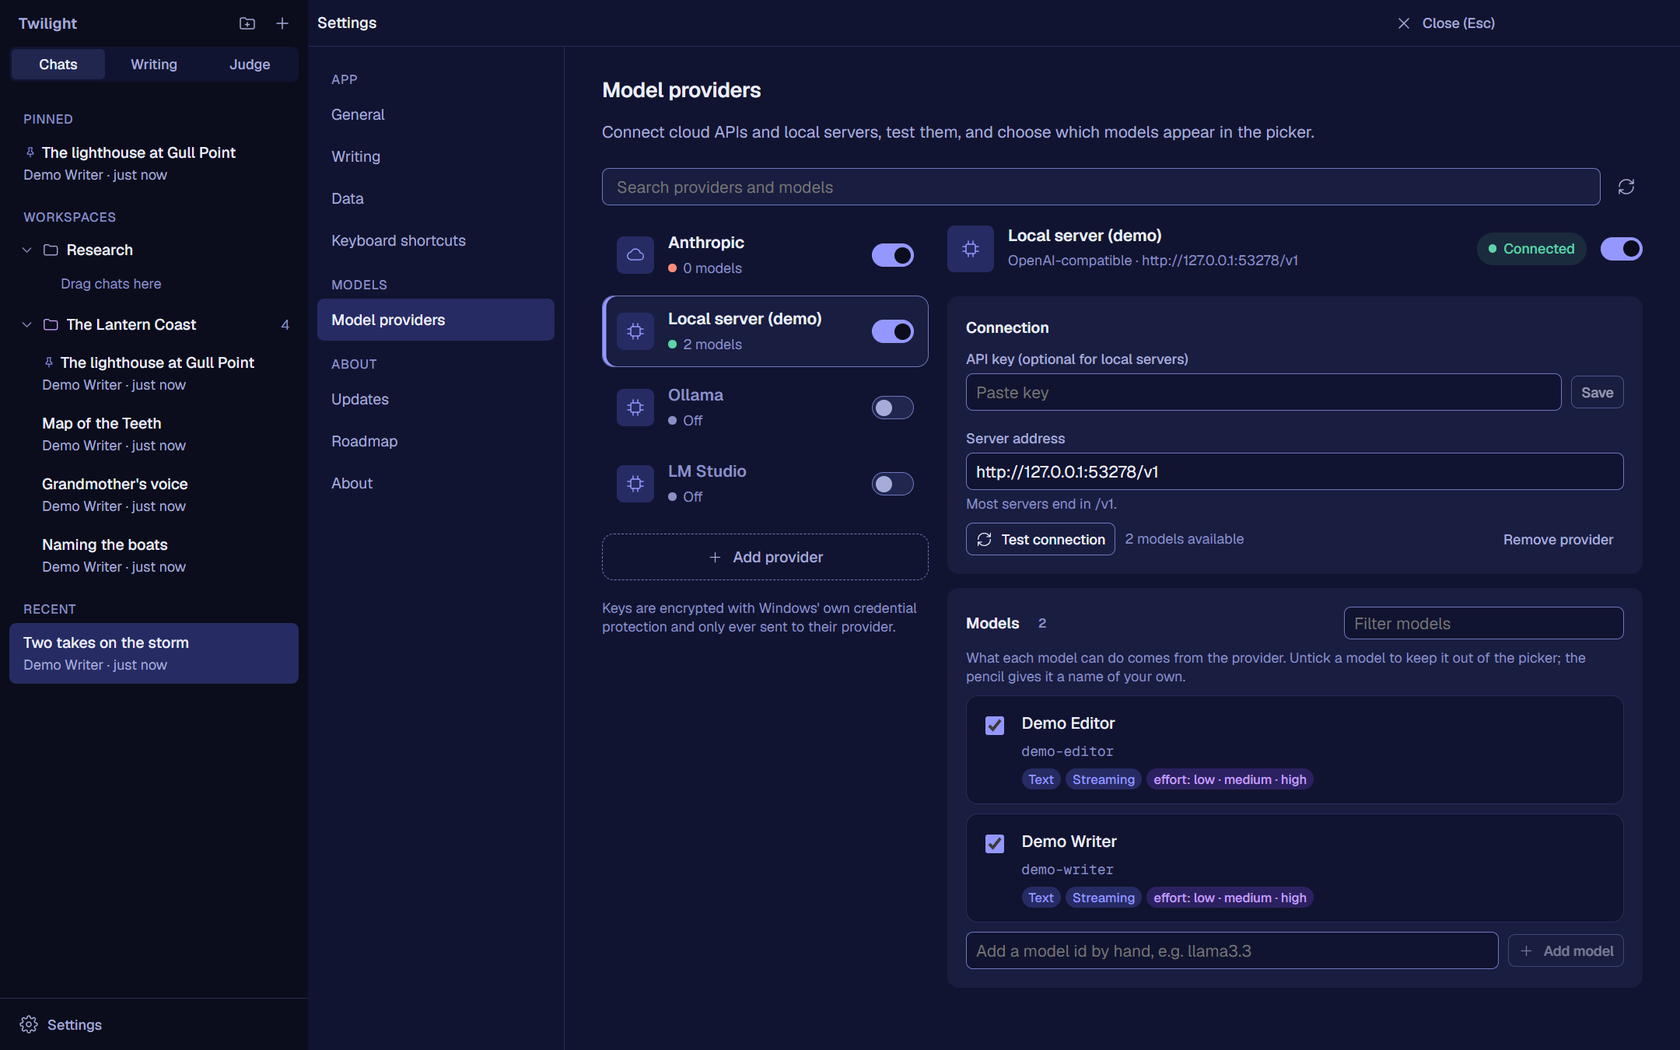
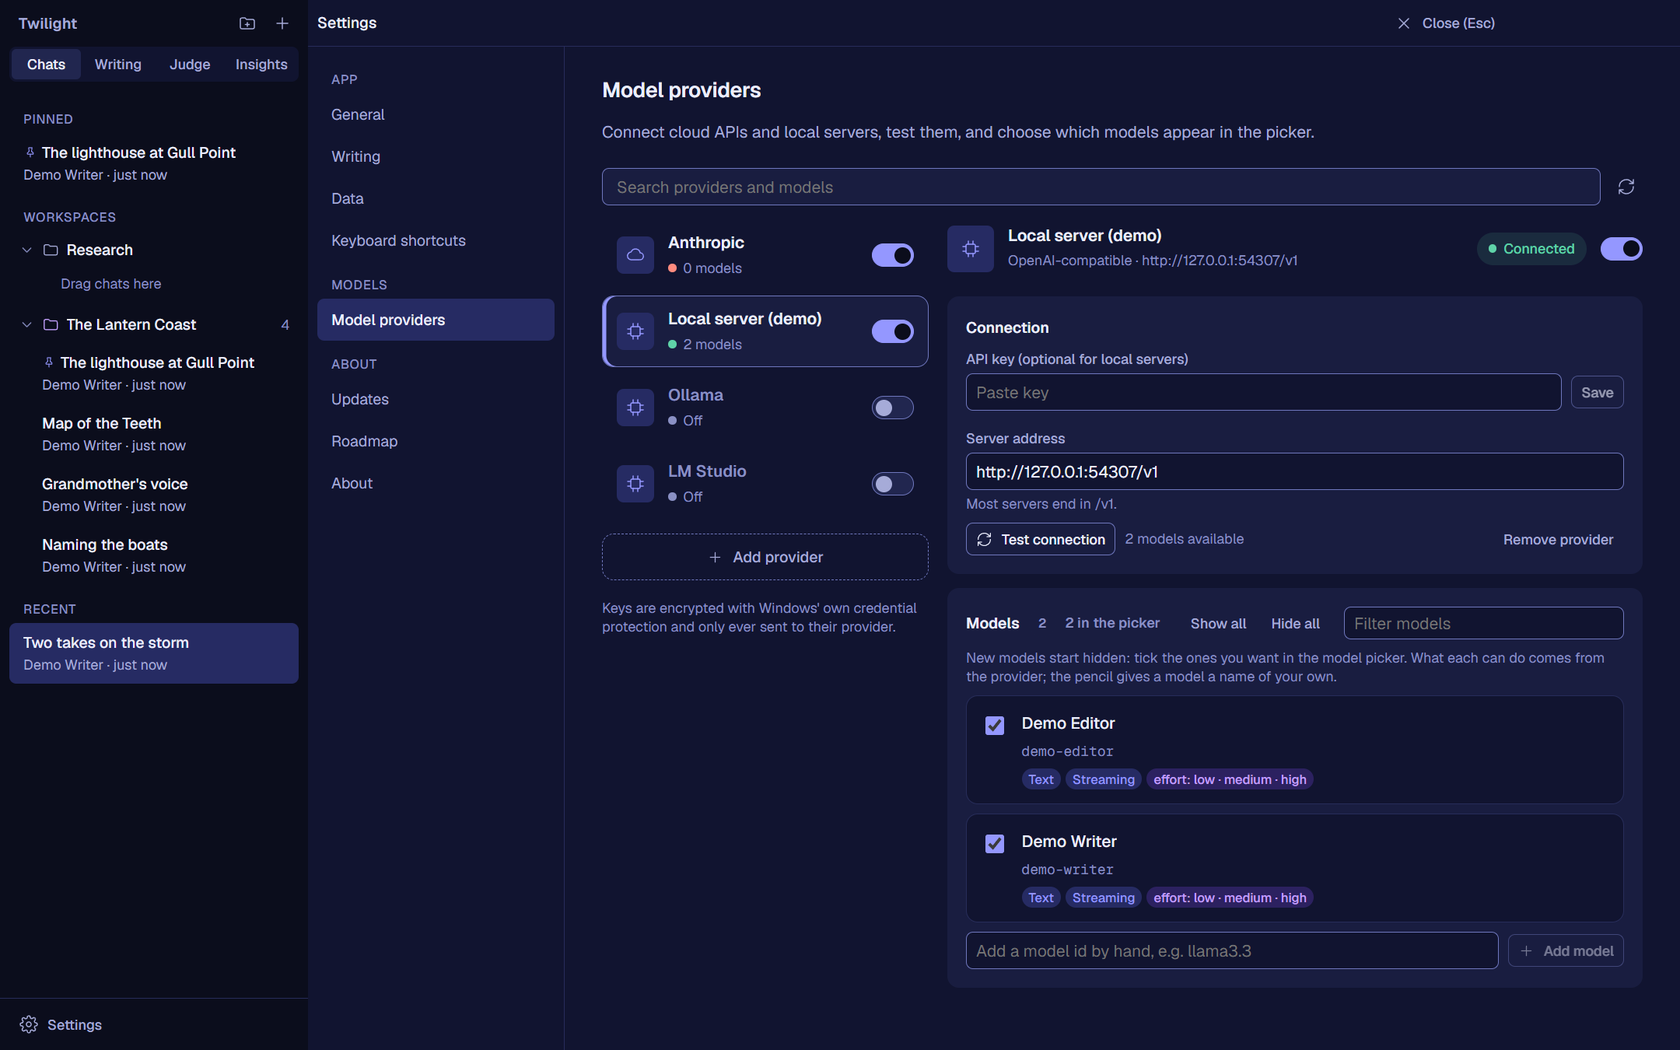
0.4.0: release notes, roadmap, Insights in the showcase and README
- Counting: a single jump of over 20k words in one file between scans is a
  paste or an import, not writing.
- Story analysis estimate says how much a quick sample reads, and that
  local models are free.
- Showcase: an invented month of writing, so the README shows the
  dashboard, story analysis and characters pages.
- e2e: 222 checks.

diff --git a/src/main/showcase.ts b/src/main/showcase.ts
@@ -6,6 +6,8 @@ import { join } from 'node:path'
 import * as chat from './chat'
 import * as db from './db'
 import * as docs from './docs'
+import * as insights from './insights'
+import * as insightsAi from './insightsAi'
 import * as judge from './judge'
 import * as providers from './providers'
 import * as updates from './updates'
@@ -124,6 +126,62 @@ On the evening the green light came, she had counted to nine boats and stopped, 
 The lamp was lit at six forty-two. The wind came from the north-east. Wren wrote both in the logbook in her careful, slanting hand, and then she looked up, and the sea was looking back.
 `
 
+// Paragraphs for the demo manuscript: shuffled into chapters so the numbers have something to count.
+const DEMO_PARAGRAPHS = [
+  'Wren counted the steps again, though she knew the number. A hundred and twelve. The count was a rope she could hold in the dark.',
+  '"Is it burning?" Grandmother called from the bottom of the stair. "It\'s burning," Wren said, and the old woman went back to her chair.',
+  'Rowan came up the path at dusk with a basket of bread and news from the quay. The tenth boat was late. The eleventh had not been seen since noon.',
+  'The lens turned. The light swept the Teeth, the Molar, the Two Sisters, and out past them the long dark water where the fishing grounds began.',
+  '"You count too much," Rowan said. "Somebody has to," said Wren. Below them the harbour bells answered each other across the water.',
+  'In the morning the sea was flat and grey and innocent, as if it had never stood up in the night and tried to climb the rocks.',
+  'Grandmother kept a ledger of every ship that had passed the point in forty years. Wren read it by lamplight, slowly, the way other children read stories.',
+  'The green light came back on the third night. Wren wrote its bearing in the margin, carefully, and did not tell anyone at all.'
+]
+
+function demoChapter(n: number): string {
+  const out: string[] = [`# Chapter ${n}`]
+  for (let i = 0; i < 70; i++) out.push(DEMO_PARAGRAPHS[(i * (n + 3) + n) % DEMO_PARAGRAPHS.length])
+  return out.join('\n\n') + '\n'
+}
+
+const DEMO_STORY = {
+  breakdown: { Drama: 34, Mystery: 22, 'Slice of Life': 18, Worldbuilding: 14, Adventure: 8, Romance: 4 },
+  genres: { Mystery: 82, Drama: 78, Fantasy: 64, 'Slice of Life': 52, Adventure: 40, 'Coming of age': 36 },
+  tags: [
+    { name: 'The sea', sub: ['Storms', 'Tides', 'Shipwrecks', 'Fishing'] },
+    { name: 'Family', sub: ['Grandparents', 'Absent parents', 'Inheritance'] },
+    { name: 'Mystery', sub: ['Strange lights', 'Secrets', 'Logbooks'] },
+    { name: 'Place', sub: ['Lighthouses', 'Harbour towns', 'Coastal rocks'] }
+  ],
+  themes: [
+    { name: 'Counting as courage', description: 'Wren holds fear at bay by counting what she can. The story asks what happens when something refuses to be counted.' },
+    { name: 'Keeping the light', description: 'Tending the lamp is duty passed between generations. Each keeper inherits the work and the silence that comes with it.' },
+    { name: 'What the sea returns', description: 'Boats, objects and memories come back changed. The harbour measures time by what it gets back.' },
+    { name: 'Secrets kept for others', description: 'Characters hide things to protect someone else. The cost of that kindness grows with every chapter.' }
+  ],
+  tone: 'Hushed, precise and patient, with a cold undertow.',
+  summary: 'An eleven-year-old keeper of a lighthouse counts everything she can, until a green light appears where none should be. As boats go missing, she and her grandmother keep the lamp burning while the harbour town pretends not to notice.'
+}
+
+const DEMO_FOCUS = {
+  strength: 'Your scenes are grounded in specific, physical detail: the count of steps, the bearing in the margin.',
+  areas: [
+    { title: 'Vary how paragraphs open', why: 'Many paragraphs begin with a name followed by a verb. Over a chapter the rhythm flattens.', evidence: ['Wren counted the steps again'], exercise: 'Rewrite five openings so they start with place, sound or time.' },
+    { title: 'Let silences carry the scene', why: 'Dialogue resolves quickly. A beat of quiet before an answer would raise the tension.', evidence: ['"It\'s burning," Wren said'], exercise: 'Add one unspoken beat to each exchange in your next scene.' },
+    { title: 'Name the green light less', why: 'The mystery weakens with every direct mention. Show its effects instead.', evidence: ['The green light came back on the third night'], exercise: 'Cut half its mentions and replace them with what Wren does.' }
+  ]
+}
+
+const DEMO_NOTES = {
+  observations: [
+    { title: 'An evening writer', text: 'Most of your words land between 8 and 11 pm, and your longest sessions start after 9.' },
+    { title: 'Weekends carry the load', text: 'Saturdays and Sundays hold nearly half your words, with shorter, steadier sessions on weekdays.' },
+    { title: 'Wren holds the stage', text: 'Wren is in most scenes. Grandmother and Rowan appear mostly beside her rather than on their own.' },
+    { title: 'Dialogue in short bursts', text: 'A fifth of your prose is spoken, usually in quick two-line exchanges.' }
+  ],
+  nextStep: 'Write one scene this week from Rowan\'s point of view, without Wren in it.'
+}
+
 function json(res: ServerResponse, body: unknown): void {
   res.setHeader('content-type', 'application/json')
   res.end(JSON.stringify(body))
@@ -159,6 +217,12 @@ function startServer(): Promise<Server> {
       let reply: string
       if (system.startsWith('You are a line editor')) {
         reply = 'Wren counted everything. The steps to the lamp room, a hundred and twelve. The boats, eleven when the weather was kind. The gulls on the rail, which changed, which was the trouble with gulls.'
+      } else if (system.startsWith('You analyse a long work')) {
+        reply = JSON.stringify(DEMO_STORY)
+      } else if (system.startsWith('You are a candid, encouraging writing coach')) {
+        reply = JSON.stringify(DEMO_FOCUS)
+      } else if (system.startsWith("You read a writer's own statistics")) {
+        reply = JSON.stringify(DEMO_NOTES)
       } else if (system.startsWith('You are an exacting fiction editor')) {
         reply = judgeReply(system, lastUser)
       } else if (lastUser.includes('storm') && parsed.model === 'demo-editor') {
@@ -296,6 +360,33 @@ export function runShowcase(win: BrowserWindow, outDir: string): void {
       const notes = await docs.createDoc('Characters', 'The Lantern Coast')
       await docs.writeDoc(notes.path, '# Characters\n\n- **Wren**, eleven. Counts everything.\n- **Grandmother**, kept the light for forty years.\n')
 
+      // Insights: a few chapters, read once as the baseline, then an invented month of writing.
+      for (let n = 3; n <= 8; n++) {
+        const doc = await docs.createDoc(`Chapter ${n}`, 'The Lantern Coast')
+        await docs.writeDoc(doc.path, demoChapter(n))
+      }
+      await insights.scan()
+      await insights.setCharacters([
+        { name: 'Wren', aliases: [], color: '#c4a0ff' },
+        { name: 'Grandmother', aliases: [], color: '#ffb48a' },
+        { name: 'Rowan', aliases: [], color: '#7dd3fc' }
+      ])
+      const h = db.handle()
+      const today = new Date()
+      for (let i = 34; i >= 0; i--) {
+        if ([3, 9, 10, 17, 24, 25, 31].includes(i)) continue
+        const d = new Date(today.getFullYear(), today.getMonth(), today.getDate() - i)
+        const words = Math.round(600 + ((i * 7919) % 2300) + (d.getDay() % 6 === 0 ? 1400 : 0))
+        h.prepare('INSERT OR REPLACE INTO writing_days (day, written, removed) VALUES (?, ?, 0)').run(insights.dayOf(d), words)
+      }
+      db.kvSet('insights.since', insights.dayOf(new Date(today.getFullYear(), today.getMonth(), today.getDate() - 34)))
+      db.kvSet('insights.hours', [120, 40, 0, 0, 0, 0, 0, 80, 300, 420, 380, 260, 180, 220, 310, 290, 340, 520, 760, 1480, 2210, 2650, 1890, 640])
+      await insights.scan()
+      insightsAi.setConfig({ providerId: 'demo', modelId: 'demo-editor', effort: null })
+      await insightsAi.runStory('quick', '')
+      await insightsAi.runFocus()
+      await insightsAi.runNotes()
+
       win.webContents.reload()
       await new Promise((r) => win.webContents.once('did-finish-load', () => r(null)))
       await wait(900)
@@ -346,6 +437,14 @@ export function runShowcase(win: BrowserWindow, outDir: string): void {
 
       await js(`[...document.querySelectorAll('.settings-nav-item')].find((b) => b.textContent.startsWith('Updates'))?.click()`)
       await shot('updates')
+
+      // Insights pages, with the achievements notice from the invented month dismissed.
+      await js(`document.querySelector('.ach-toast [aria-label="Dismiss"]')?.click(); document.querySelector('[data-mode="insights"]').click(); await wait(600)`)
+      await shot('insights')
+      await js(`[...document.querySelectorAll('.insights-nav-item')].find((b) => b.textContent.startsWith('Story analysis'))?.click(); await wait(700)`)
+      await shot('story')
+      await js(`[...document.querySelectorAll('.insights-nav-item')].find((b) => b.textContent.startsWith('Characters'))?.click(); await wait(500)`)
+      await shot('characters')
       writeFileSync(join(outDir, 'showcase.json'), JSON.stringify({ ok: true }))
     } catch (err) {
       writeFileSync(join(outDir, 'showcase.json'), JSON.stringify({ ok: false, error: String(err) }))

diff --git a/src/main/e2e.ts b/src/main/e2e.ts
@@ -1022,7 +1022,7 @@ export function runE2E(win: BrowserWindow, outDir: string): void {
         return out
       })()`)
       check('roadmap shows planned work as cards', roadmapUi.cards > 10 && roadmapUi.ideas > 3 && roadmapUi.doing >= 1, roadmapUi)
-      check('roadmap timeline lists the releases', roadmapUi.releases.join() === '0.3.1,0.3.0,0.2.0,0.1.0', roadmapUi.releases)
+      check('roadmap timeline lists the releases', roadmapUi.releases.join() === '0.4.0,0.3.0,0.2.0,0.1.0', roadmapUi.releases)
       check('roadmap filters by area', roadmapUi.writingCards.length > 0 && roadmapUi.writingCards.every((a: string) => a === 'Writing'), roadmapUi.writingCards)
       await win.webContents.capturePage().then((img) => writeFileSync(join(outDir, 'e2e-roadmap.png'), img.toPNG()), () => undefined)
 
@@ -1054,6 +1054,12 @@ export function runE2E(win: BrowserWindow, outDir: string): void {
       await insights.scan()
       ins = insights.summary()
       check('writing it back counts again', ins.today === grown + grown - 3, { today: ins.today, grown })
+      const pasteDoc = await docs.createDoc('Pasted chapter')
+      await insights.scan()
+      const beforePaste = insights.summary().today
+      await docs.writeDoc(pasteDoc.path, 'paste '.repeat(21000))
+      await insights.scan()
+      check('pasting a novel into an existing file is not writing', insights.summary().today === beforePaste, { before: beforePaste, after: insights.summary().today })
       await insights.setCharacters([
         { name: 'Wren', aliases: [], color: '' },
         { name: 'Rowan', aliases: ['Ro'], color: '#ffb48a' }

diff --git a/src/renderer/src/components/InsightsAi.tsx b/src/renderer/src/components/InsightsAi.tsx
@@ -241,7 +241,8 @@ function StoryPage({ ai, s }: { ai: AiState; s: InsightsSummary }) {
   const run = (mode: 'quick' | 'deep'): void => {
     void window.twilight.runStory(mode, scope).catch((err) => useStore.getState().setError(errText(err)))
   }
-  const cost = (e: StoryEstimate | null): string => (e?.costUsd != null ? `about ${formatCost(e.costUsd)}` : 'cost unknown for this model')
+  const cost = (e: StoryEstimate | null): string =>
+    e?.costUsd == null ? 'cost unknown for this model' : e.costUsd === 0 ? 'free on a local model' : `about ${formatCost(e.costUsd)}`
   return (
     <>
       <Head title="Story analysis" sub="What your story is made of: content, genres, tags and themes, read by a model you choose" />
@@ -265,7 +266,7 @@ function StoryPage({ ai, s }: { ai: AiState; s: InsightsSummary }) {
           </button>
         </div>
         <p className="field-note">
-          Quick sample: one call reading {estimate.quick ? 'about 25k words of excerpts' : '…'}, {cost(estimate.quick)}. Deep scan:{' '}
+          Quick sample: one call reading {estimate.quick ? `${estimate.quick.words > 25000 ? 'about 25,000 words of excerpts' : `all ${estimate.quick.words.toLocaleString()} words`}` : '…'}, {cost(estimate.quick)}. Deep scan:{' '}
           {estimate.deep ? `${estimate.deep.calls} call${estimate.deep.calls === 1 ? '' : 's'} over ${estimate.deep.words.toLocaleString()} words` : '…'}
           {estimate.deep && estimate.deep.cached > 0 ? ` (${estimate.deep.cached} parts already read, never billed twice)` : ''}, {cost(estimate.deep)}.
         </p>

diff --git a/src/main/insights.ts b/src/main/insights.ts
@@ -2,7 +2,8 @@
 // (in a worker thread, skipping files that haven't changed) and keeps each file's analysis. Words
 // written are measured as growth between scans and booked to the day and hour they happened:
 //   - the first scan of a folder is a baseline, so a finished manuscript isn't "written today";
-//   - a new file counts as written, unless it's over IMPORT_LIMIT words (an import, not a day's work);
+//   - a new file counts as written, unless it's over IMPORT_LIMIT words (an import, not a day's work),
+//     and so does growth, unless one file jumps by more than that between scans (a paste);
 //   - shrinking a file books removed words, never negative writing.
 // Scans run at launch, when the folder changes on disk (debounced), and on Rescan.
 
@@ -167,8 +168,9 @@ async function runScan(): Promise<void> {
     const row = known.get(d.path)
     if (row) {
       const delta = analysis.words - row.words
-      if (delta > 0) written += delta
-      else removed -= delta
+      // A jump this size between two scans is a paste or an import, not writing.
+      if (delta > 0 && delta <= IMPORT_LIMIT) written += delta
+      else if (delta < 0) removed -= delta
     } else if (!baseline && analysis.words <= IMPORT_LIMIT) written += analysis.words
     upsert.run(d.path, d.mtime, d.size, analysis.words, key, JSON.stringify(analysis))
     if (++done % 4 === 0 || done === todo.length) emitInsights({ kind: 'progress', done, total: todo.length })

diff --git a/CHANGELOG.md b/CHANGELOG.md
@@ -2,7 +2,33 @@
 
 Each version's section becomes its release notes on the releases page (`npm run release`), and Twilight shows them in Settings > Updates.
 
-## 0.3.1
+## 0.4.0
+
+**Writer insights** (a new tab)
+- Your writing folder seen as numbers:
+  - **Dashboard:** words written today, this week, month and year; your streak and best day; the last 14 days.
+  - **Heatmap:** every day of the year you wrote, plus the hours you write in.
+  - **Word analysis:** sentence length, dialogue share, adverb density, vocabulary, most used words.
+  - **Characters:** screen time, who shares scenes with whom, where each one lives. Names are suggested from your text; aliases count as the same character.
+- Words written are measured as your files grow, so they count wherever you write: in Twilight, Obsidian or anything else.
+  - The first scan is a baseline: a finished manuscript isn't "written today".
+  - A big new file is treated as an import, and cutting text never counts against you.
+- Files are read in the background, and only the ones that changed. Millions of words take seconds.
+- **Achievements:** 43 of them. Ones you'd already earned unlock quietly; new ones share a single notice.
+- **Story analysis** (AI):
+  - A quick sample, or a deep scan of every word, giving content breakdown, genres, tags with subtags, themes and a summary.
+  - The deep scan never pays twice for text that hasn't changed, and you see the cost estimate first.
+- **Focus** (AI): a few concrete things to work on, with quotes from your recent writing and an exercise for each.
+- **Insights** (AI): observations about your habits and rhythms, from your statistics only. No manuscript text is sent.
+- **Reports:** week, month, year and all-time recaps as single HTML files that open in your browser, optionally with your saved AI results.
+
+**Look and feel**
+- New **Ultraviolet** theme (Settings → General → Appearance): deep violet with magenta and pink. The window frame follows.
+- **Tools** menu in the composer: choice cards, the choice-menu tool, how choices are read, and the how-to, all in one place. Choices and Tools explain themselves when you hover.
+- **Model providers, redesigned:** providers on the left; the one you pick fills the right with its connection settings and a grid of its models. A provider without models shows the steps to get some.
+- **Models start hidden:** tick the ones you want in the picker, with Show all and Hide all. After updating, only the model you're using stays ticked.
+- **Roadmap page** in Settings: what has shipped, what's next and what's later, as a timeline and cards.
+- Clicking a tab while Settings is open now closes Settings.
 
 **Clearer API key problems**
 - A pasted key is cleaned up before it's saved: an `ANTHROPIC_API_KEY=` or `x-api-key:` prefix, `Bearer`, quotes, and spaces or line breaks from copying. Keys you already saved are cleaned too.
@@ -12,12 +38,8 @@ Each version's section becomes its release notes on the releases page (`npm run 
   - or a real API key that's been revoked or deleted.
 - An Anthropic endpoint written with `/v1` at the end now works; Twilight no longer doubles it.
 
-**Model providers, redesigned**
-- Providers are listed on the left. The one you pick fills the right side: connection settings side by side, then its models as a grid of cards.
-- A provider without models shows the steps to get them instead of an empty box.
-
-**Roadmap**
-- New Settings → Roadmap page: what has shipped (a timeline of releases), what's next, what's later and the ideas, filterable by area.
+**One repository**
+- Twilight's source, releases and this changelog now live together at github.com/invictus-1/twilight, and updates come from its releases. If you have an earlier version, install this one by hand once.
 
 ## 0.3.0
 

diff --git a/ROADMAP.md b/ROADMAP.md
@@ -4,11 +4,19 @@ What's shipped, what's next, and ideas not yet committed to. Twilight shows this
 
 ## Shipped
 
-### 0.3.1 · October 2026
+### 0.4.0 · October 2026
+- [x] **Writer insights** · Writing — dashboard, heatmap, word analysis and characters for the whole writing folder, counted as files grow
+- [x] **Achievements** · Writing — 43 of them, earned quietly, one notice at a time
+- [x] **Story analysis** · Writing — content, genres, tags and themes by a model you choose; deep scans never re-bill unchanged text
+- [x] **Focus and Insights** · Writing — things to work on, and what your numbers say about how you write
+- [x] **Reports** · Writing — week, month, year and all-time recaps as single HTML files
+- [x] **Ultraviolet theme** · Core — deep violet with magenta and pink
+- [x] **Tools menu** · Chat — every choice switch in one place, with hover help
+- [x] **Models start hidden** · Core — tick the models you want in the picker
 - [x] **Clearer key errors** · Core — pasted keys cleaned up; a rejected key described by its kind, never shown
 - [x] **Providers, two panes** · Core — a provider list beside the selected provider's connection and model grid
 - [x] **Roadmap page** · Core — this page: a release timeline, cards by area, and ideas
-- [x] **Releases page tour** · Core — screenshots made from demo data and a feature tour
+- [x] **Open source** · Core — source, releases and a feature tour in one public repository
 
 ### 0.3.0 · October 2026
 - [x] **Choices as a tool call** · Chat — the model calls present_choices with the options as data; the pick goes back as the tool result
@@ -42,7 +50,7 @@ What's shipped, what's next, and ideas not yet committed to. Twilight shows this
 - [x] **Installer** · Core — Windows installer and portable zip, with Twilight artwork
 
 ## Next
-- [~] **Your feedback on 0.3** · Core — fixes from real use of the updater, tool-call choices and the new providers page
+- [~] **Your feedback on 0.4** · Core — fixes from real use of Writer insights, the updater and the Tools menu
 - [ ] **Welcome** · Core — an animated first run: the cover's bands slide in, the sun sets, and setup follows (a provider or local server, a writing folder)
 - [ ] **Command menu** · Core — Ctrl+K for everything, Ctrl+/ for the shortcut sheet, rebindable keys
 - [ ] **Search everything** · Core — every chat and document at once (Ctrl+Shift+F)
@@ -63,9 +71,9 @@ What's shipped, what's next, and ideas not yet committed to. Twilight shows this
 ## Later
 - [ ] **Tools and MCP** · Chat — web search, web fetch, date and time, image generation, switched on per chat
 - [ ] **Agents and code** · Chat — an agent loop for any model with tool calling, with approvals and diffs
-- [ ] **Themes** · Core — Midnight, Synthwave, Aurora, Campfire, Moonlit Paper, High contrast, and a theme builder
+- [ ] **More themes** · Core — Midnight, Synthwave, Aurora, Campfire, Moonlit Paper, High contrast, and a theme builder
 - [ ] **Motion** · Core — a startup animation, a retro home screen, transitions between pages
-- [ ] **Stats** · Core — words, tokens, spend, active days and streaks; quiet achievements
+- [ ] **Usage stats** · Core — tokens and spend over time, by model and by chat
 - [ ] **Personas and prompts** · Chat — a library of personas and prompts
 - [ ] **Split differences** · Chat — see what changed between the two panes
 - [ ] **Document library** · Writing — retrieval over very large collections with local embeddings

diff --git a/README.md b/README.md
@@ -68,7 +68,13 @@ Markdown documents in any folder you choose (an Obsidian vault works as is). A 1
 
 ### Writer insights
 
+![Writer insights: words written today, this week, month and year, streak, best day, and the last 14 days](docs/screenshots/insights.png)
+
 Your writing folder, seen as numbers: words written today, this week and this year; a heatmap of the days you write; streaks and your best day; sentence length, dialogue share, adverb density and vocabulary; which characters get the most page time and who shares scenes with whom. The first scan of a folder is a baseline, so a finished manuscript isn't counted as one day's writing. Achievements unlock quietly along the way.
+
+![Story analysis: a summary, the content breakdown and genres, read by a model you choose](docs/screenshots/story.png)
+
+With a model you choose, **Story analysis** reads what your story is made of (content, genres, tags, themes); a deep scan never pays twice for text that hasn't changed. **Focus** suggests a few things to work on, with quotes and an exercise, and **Insights** reads your habits from the numbers alone. **Reports** turn a week, month, year or everything into a single HTML recap. And when the dark blue gets old, there's an **Ultraviolet** theme.
 
 ### Your models, your keys
 
